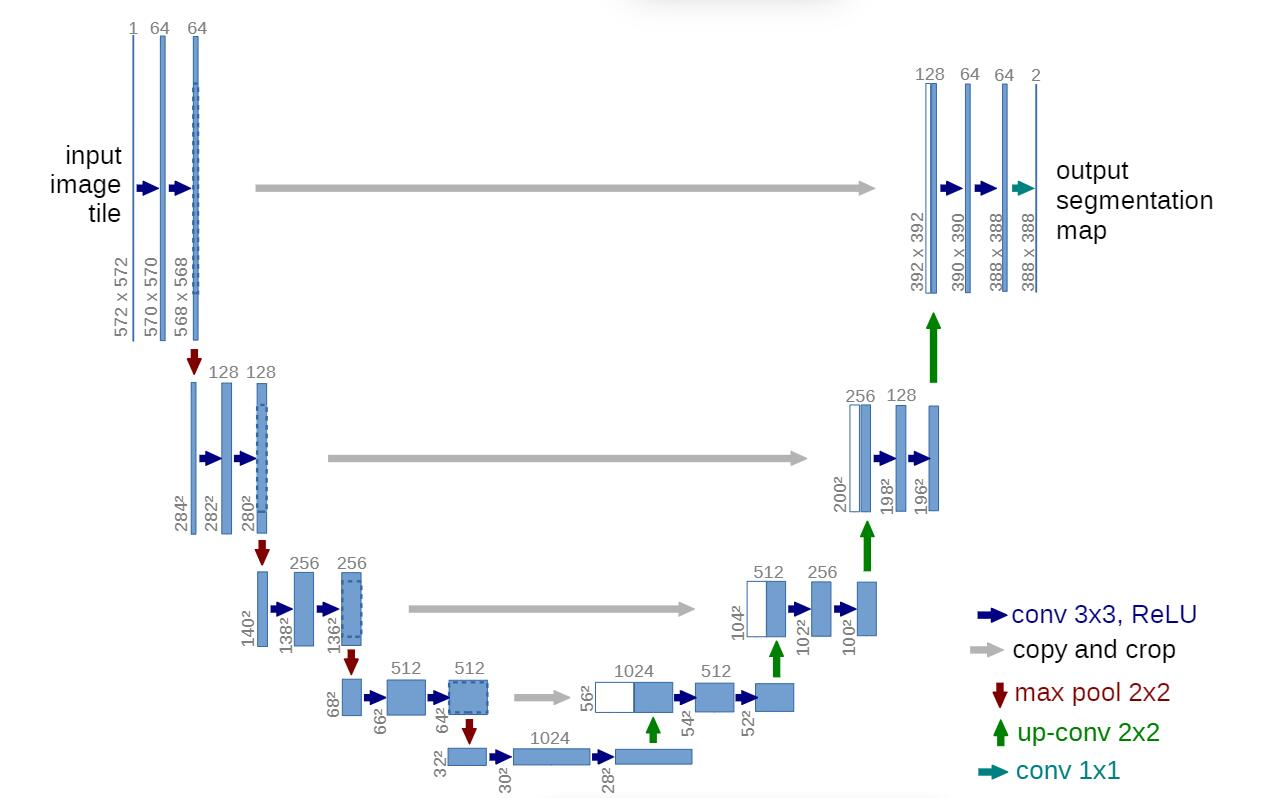
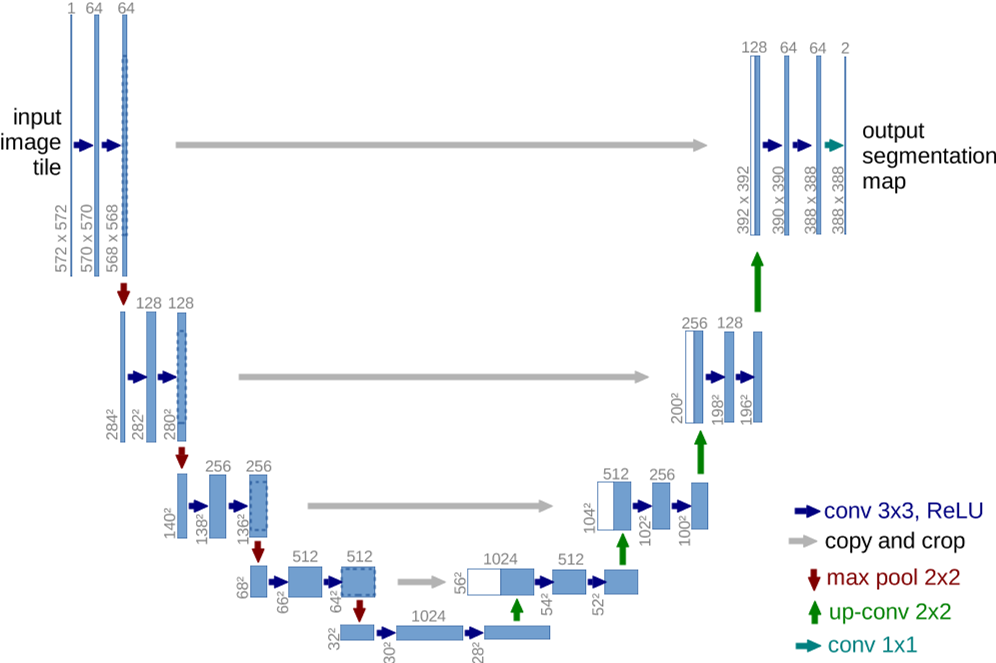
docs: 更新 UNet 图片格式

Changed region(s): [[0.0, 0.0, 1.0, 1.0], [0.747, 0.7541, 0.996, 0.9955]]

diff --git a/Doc/public/docs/ref_and_notes/unet.md b/Doc/public/docs/ref_and_notes/unet.md
@@ -39,7 +39,7 @@ $$
 
 网络体系结构如下图：
 
-![](../static/images/UNet/fig1.jpg)
+![](../static/images/UNet/fig1.png)
 
 *包括一条收缩路径（左侧）和一条扩张路径（右侧）。每个蓝色框对应一个多通道特征图，通道数量显示在方框顶部，x-y 尺寸位于方框的左下。白框表示复制的要素图。箭头表示不同的操作。*
 
